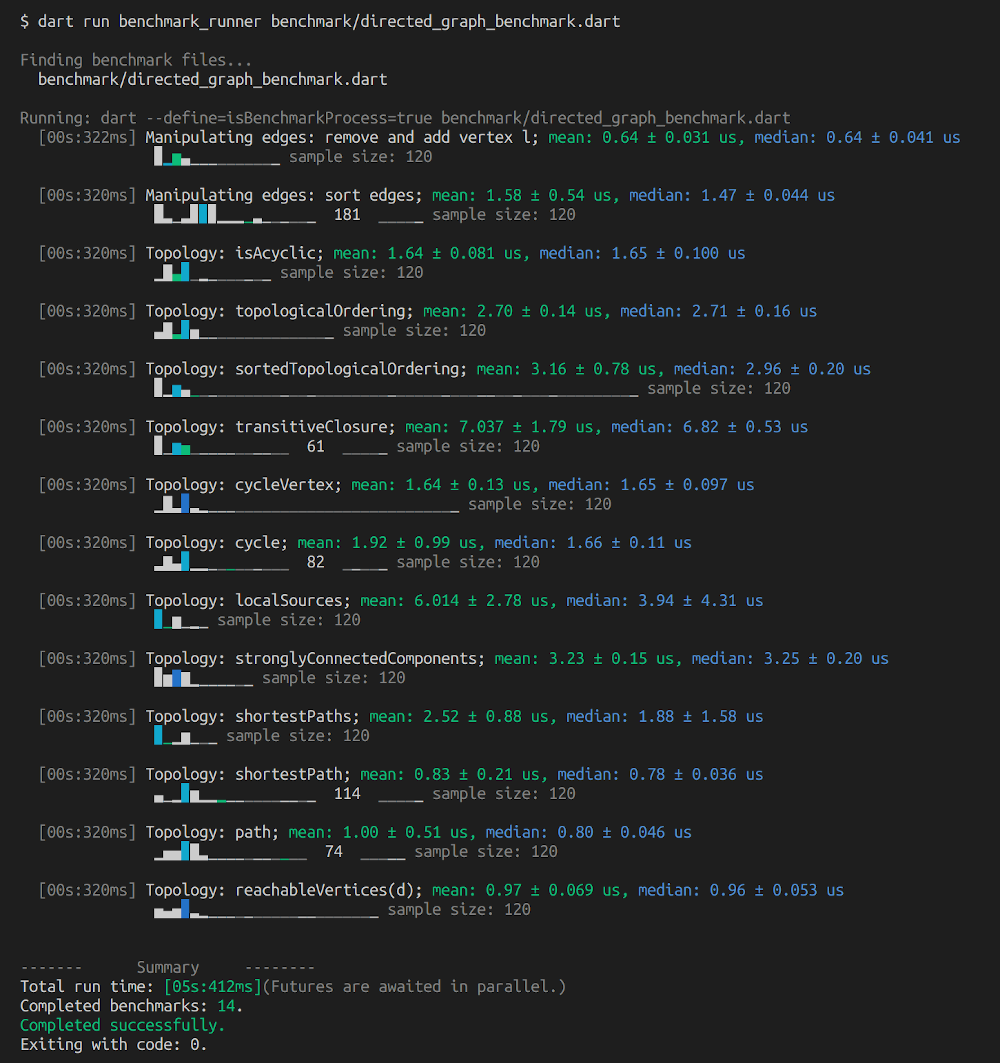
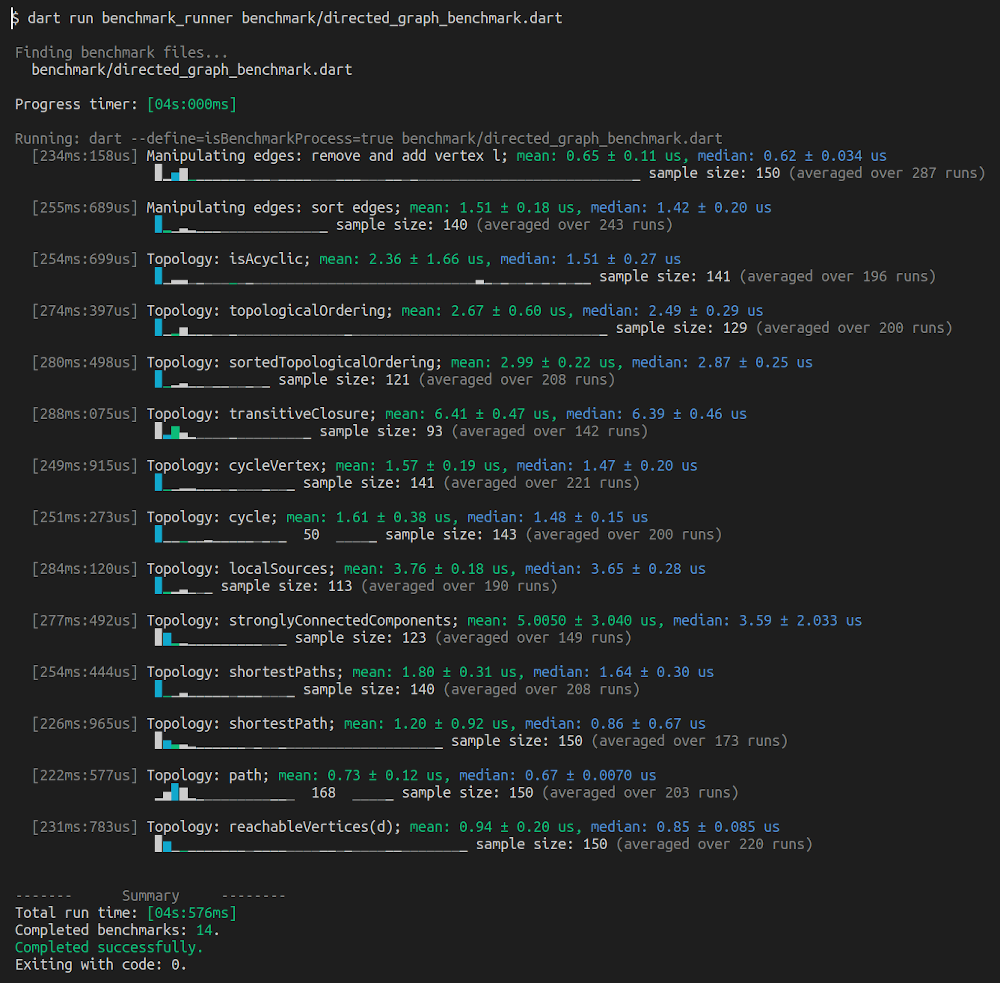
Updated benchmark runner version.

Changed region(s): [[0.0, 0.0, 0.992, 1.0]]

diff --git a/CHANGELOG.md b/CHANGELOG.md
@@ -1,3 +1,6 @@
+## 0.4.4
+- Updated benchmark_runner version and benchmark report.
+
 ## 0.4.3
 - Updated deps.
 
